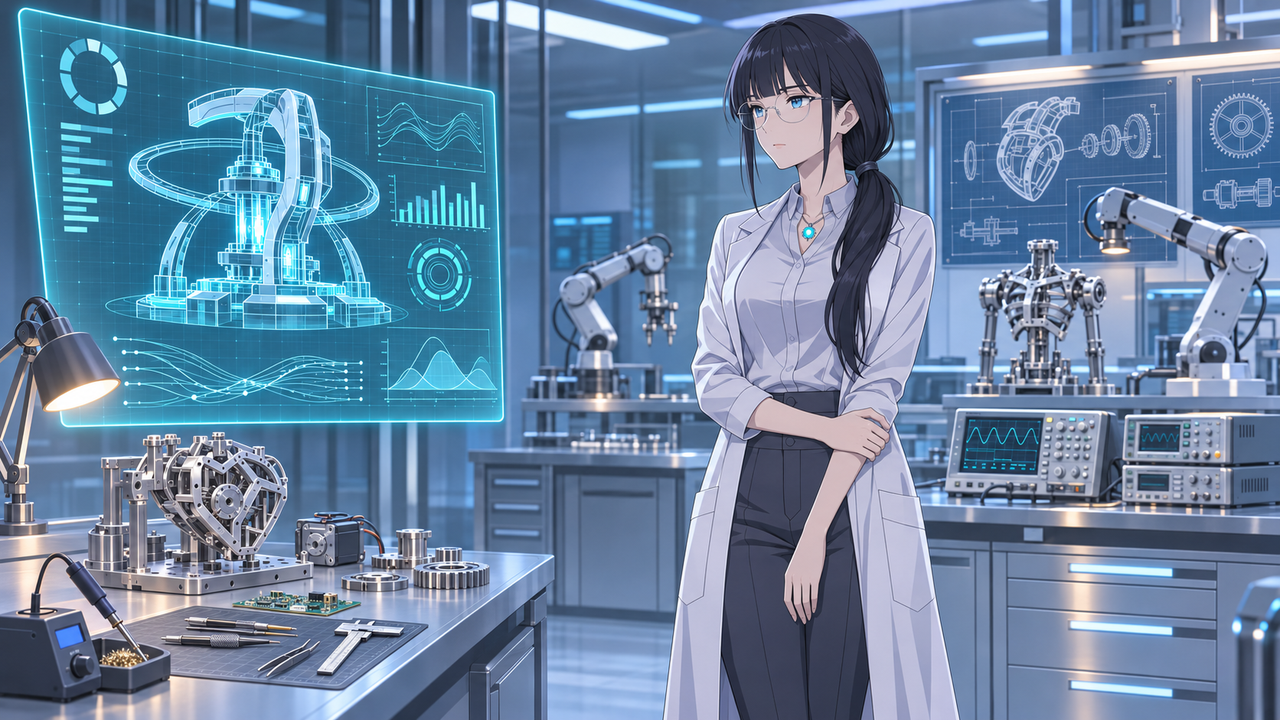
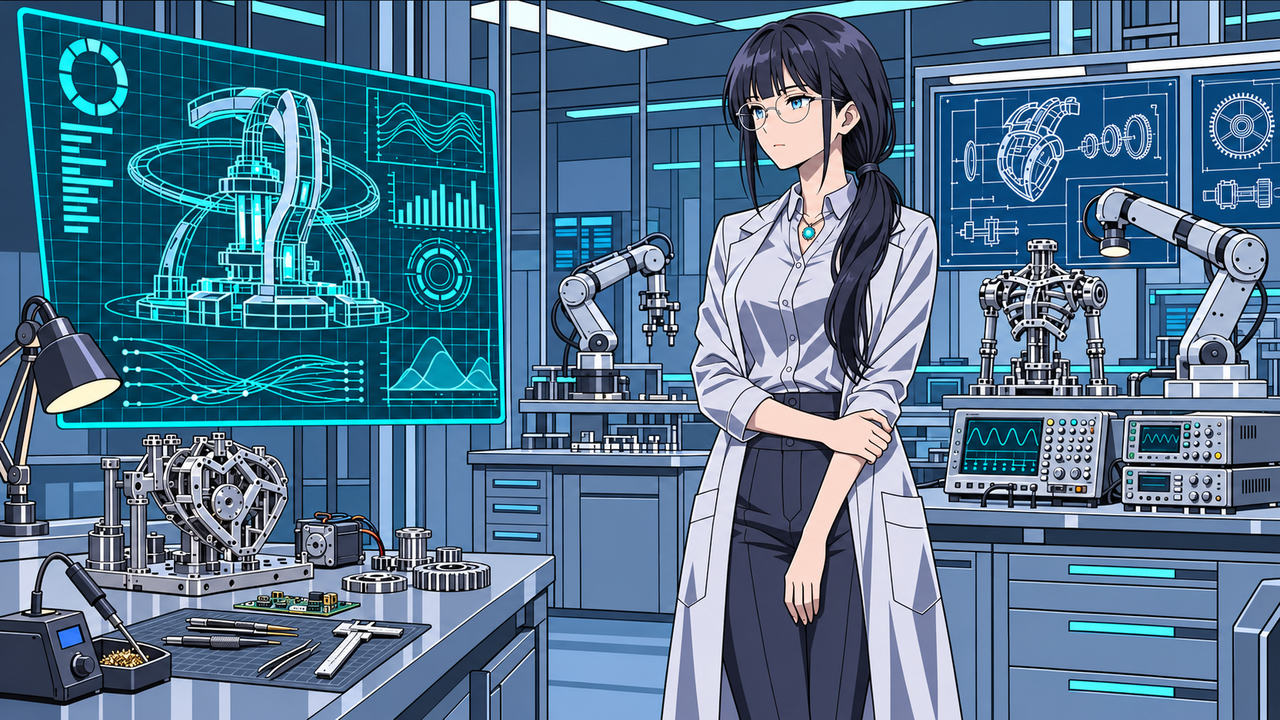
R648 归档机械之心 CG 画风统一：立绘换 landed 版 + 两张候选 v1 入库
- assets/ui/class_cg_mech.png：换成「机械之心 CG 画风统一」的 landed 版
  （1280x720，尺寸与旧版一致，宽高均为 4 的倍数，Android VRAM 压缩无需补丁）。
- class_cg_mech_cel_v1.png：硬边赛璐璐重绘候选（1672x941），仅素材，未接入场景。
- workshop_engineer_cg_v1.png：工坊工程师 CG（1672x941），仅素材，未接入场景。
- HANDOFF：补两条该线英文记录 + 本轮 R648 段落；顺带把 4 个历史 CRLF 行统一为 LF。

回归不受素材影响，仍为 engine 5843✓ / reward 26 / bgm 39 / smoke 69-0 / mana PASS。

diff --git a/HANDOFF.md b/HANDOFF.md
@@ -1522,6 +1522,22 @@ manifest 的 9018 条目已更新 ref / prompt / note。
 - **回归**：assemble 0 / engine **5766✓** / reward 26 / bgm 39 / smoke 68 / mana PASS；
   存档目录备份后逐文件还原，`RESTORE_VERIFY OK`。
 
+## 2026-11-12 Workshop engineer CG
+- Goal: generate workshop engineer illustration using rogue CG solely as drawing-technique reference.
+- Added assets/ui/workshop_engineer_cg_v1.png using built-in image_gen. No scene integration or existing asset replacement.
+- Validation: visually reviewed output: black ponytail, glasses, neutral expression, light mechanic overalls, soldering pose, open construct, workshop depth and drone present. Asset-only review, not in-game verification.
+- Known deviations: drone has a small cyan panel; background remains relatively sharp; pendant glow is restrained. Full six-head height cannot be verified in cropped composition.
+- Git status --short failed because git.exe execution was denied. Existing external changes could not be inventoried. No commit or push performed.
+- Next: review asset; if integrating, verify real scene and narrow viewport. Commit explicit new asset and HANDOFF.md when Git works.
+
+## 2026-11-12 Mechanical engineer cel redraw
+- Goal: rendering-only anime cel-shading edit of assets/ui/class_cg_mech.png.
+- Added assets/ui/class_cg_mech_cel_v1.png using built-in image_gen; reference preserved, no scene integration.
+- Prompt: preserve exact reference framing, identity, pose, objects and palette; thin black outlines, flat base colours and two hard-edged shadow steps; no gradients, bloom, blur, textures or light spill. Reference arm placement takes precedence over prose description.
+- Validation: visually inspected generated image; hard cel shadows and crisp outlines present. Fine mechanical geometry, face details and some colours differ; not pixel-identical preservation. Asset review only, no game-scene acceptance.
+- Git status --short failed: git.exe execution denied. External changes could not be inventoried. No commit or push performed.
+- Next: review fidelity before integration; commit explicit new asset and this handoff addition when Git access is restored.
+
 ## 2026-11-12 R624 同一张卡一回合只减一次费 / 复制品不继承附魔
 - 店长口径两条：①**同一张卡的减费一个回合不能生效两次**；②**复制卡的事件 / 遗物不能复制卡上的附魔**。
 - ① 唯一判据 `GameEngine._turn_discount_taken(card)`：两张**回合级**减费表（`turn_card_discount` / `hand_cost_turn`）任一已有正数 → 本回合不再减（负数 = 涨价，不占额度）。接入三处：`_discount_hand_skills`（影魔 8007 / 组合 `hand_skill_discount`）、`_discount_random_hand`（雪豹 8081 / 组合 `hand_discount`，候选池直接排除已减过的卡）、`_spell_play_tick` 的魔像术 9079。永久减费（`card_discount`：陨石术 9077 / 灵魂收割者）与「新入手 / 刚变化出来」的卡（机械臂 6065 / 随心组装 9144 / 森林的朋友们 9183 / 取牌）不在此列 —— 后者天然是新实例。
@@ -1544,3 +1560,14 @@ manifest 的 9018 条目已更新 ref / prompt / note。
 - **回归**：assemble 0 / mana PASS / engine **5838✓** 0✗ / reward 26✓ / bgm 39✓ / smoke 69✓。注：5838 含并行线 R645 的 11 项，本线没动 `test_engine.gd`。
 - **提交卫生**：`battle_scene.gd` 与 `game_engine.gd` 里混着并行线未提交的 **R645 龙息多段**改动（`FX_SEG_HIT_GAP_MS` / `fi_seg` / `_hit_unit(seg)`），按纪律走**干净 HEAD + index-only**（`hash-object` + `update-index --cacheinfo`），提交里 0 处 R645。
 - **编号**：R642 已被并行线占用（图鉴「见过才解锁」`93fe1635`），R643 稀有度缎带 / R644 老虎卡图 / R645 龙息在用，本轮让到 **R646**。
+
+## 2026-11-13 R648 多段伤害逐段补漏 + 机械之心 CG 归档
+- **代码**（`battle_scene.gd` / `game_engine.gd`）：R645 定的「多段伤害必须带 seg」有几处没接上，表现为一次连打只飘最后一个数字。
+  ① `_meteor_shower` 逐颗 `_hit_unit(..., -1, i)` 带上第 i 颗的 `seg`（以前只有 `seq`，同格命中被去重）；
+  ② `_on_engine_action` 去重判据改 `if not fi_owned or fi_seg >= 0`，且只有第 0 段 `_fx_claim()`，后续段跟着它演；
+  ③ `_delayed` 的 `fx_hit` 数据带 `seg`；④ `_tick_anims` 的 busy 判据补 `_breaths`（`_breaths` 按 `start+dur` 自然过期，不会永久阻塞）；
+  ⑤ `_draw_flames` 真正应用 `ftint`（R645 取了 tint 仍画白色 → 紫龙焰是橙的）；⑥ `--r645breath` 截图档位直连 `_dragon_breath_spell`，不走 `use_spell()`（出图帧上回合状态未就绪会静默拒绝，首版空跑两次）。
+- **美术归档**：并行线的「机械之心 CG 画风统一」产物落地 —— `assets/ui/class_cg_mech.png` 换成 landed 版（1280x720，尺寸不变，4 的倍数，Android VRAM 压缩无风险）；新增两张**尚未接入场景**的候选 `class_cg_mech_cel_v1.png`（硬边赛璐璐重绘）/ `workshop_engineer_cg_v1.png`（工坊工程师），均为 1672x941。HANDOFF 里另两条英文记录由该线写入，原样保留。
+- **杂项**：`tools/probe_r633_ban.gd` / `probe_r633_save.gd`（r633 期探针）补入库；`art_src` 两张回归产物（`fire_live.png` 重存、`mana_headless.log` 去掉 exit 泄漏警告）刷新。
+- **回归**：assemble 0 / mana PASS / engine **5843✓** 0✗ / reward 26✓ / bgm 39✓ / smoke 69-0。存档目录 `_bk_r648_userdata` 备份后逐文件还原。
+- **出包**：测试版（非 release）—— Windows 单文件 exe（`_release.py`）+ Android APK（`release/build_apk.sh`）。
